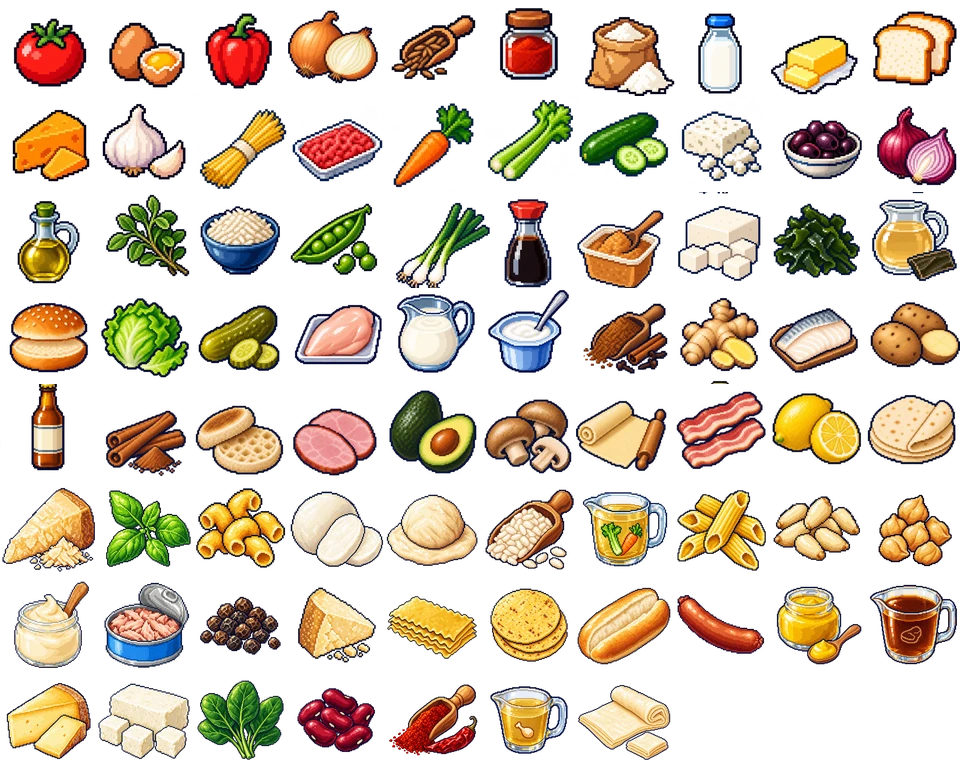
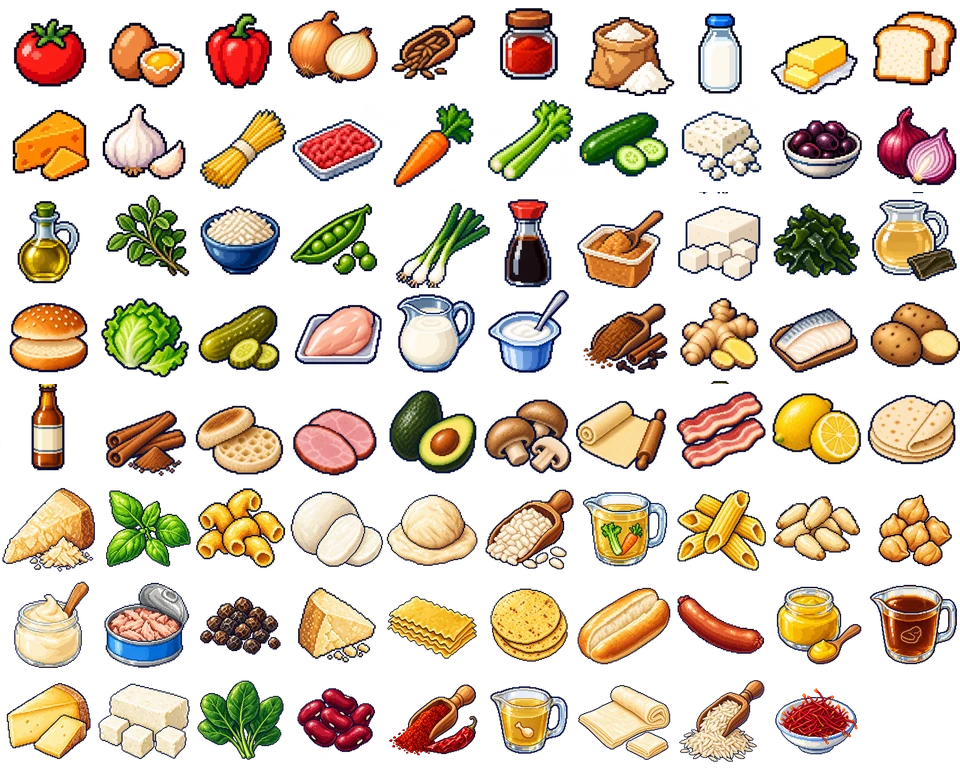
Complete chicken biryani artwork set

Changed region(s): [[0.6875, 0.875, 0.9062, 1.0]]

diff --git a/WORK_LOG.md b/WORK_LOG.md
@@ -6,12 +6,12 @@ Every AI must read this file before working and update it throughout the session
 
 - Current milestone: game/ is playable with Daily dish (US Eastern midnight, shared clue order, saved on device) and Endless (shuffled deck, excludes today's daily, not saved). Browser-verified in emulation; real-device keyboards untested.
 - Product: daily meal guessing plus endless mode. Approved desktop B split layout and mobile native-keyboard-aware layout.
-- Available: 45-meal roster, 35 meal illustrations, 77 of 103 canonical ingredient icons, 11 draft custom animation groups, mockups, prompts, visual prototypes and normalized asset map.
+- Available: 45-meal roster, 36 meal illustrations, 79 of 103 canonical ingredient icons, 11 draft custom animation groups, mockups, prompts, visual prototypes and normalized asset map.
 - Implemented: responsive game, daily/endless, daily persistence, alias suggestions, streaks, sound and lazy-loaded art. Test deploy live at https://meal-lion-playtest.netlify.app (updated 2026-10-23, public, no password); final product decisions remain open. reference/meal-lion-demo/pilot.html remains a visual demo that exposes answers.
-- Repository/branch/checkpoint: codex/missing-food-art; latest existing checkpoint c687920 before Chicken pot pie set; deployed source e57c02b on 2026-10-23, pushed to origin/main and origin/codex/missing-food-art. Remote: origin = https://github.com/EricTalanoa/meal-lion (private); main, feat/three-meal-game and codex/missing-food-art pushed 2026-10-19.
+- Repository/branch/checkpoint: codex/missing-food-art; latest existing checkpoint acffe0d (Chicken pot pie); Biryani set in progress; deployed source e57c02b on 2026-10-23, pushed to origin/main and origin/codex/missing-food-art. Remote: origin = https://github.com/EricTalanoa/meal-lion (private); main, feat/three-meal-game and codex/missing-food-art pushed 2026-10-19.
 - Asset automation: cloud task 6ad7bfe9c2408191b650b820afd8a386 was verified PAUSED on 2026-10-21; local heartbeat is PAUSED to prevent duplicates. 41 icons / 18 meals queued. Outputs require later local import. See docs/ASSET_AUTOMATION.md. Recurring queue/resume behavior remains untested.
 - Confirmed rules: ingredient-count guess budget, one free clue (zero optional), hidden total by default (showing totals is optional), with explicit 'all ingredients revealed' and 'last guess' cues; reveal order shuffled every round; skip policy approved; typo-tolerant suggestions. Open decisions: aliases, timezone/schedule, scoring and storage. See docs/PRODUCT.md.
-- Images: startup downloads kitchen, chef and one 308 KB sheet of all 75 ingredient icons (tools/build-icon-atlas.py), so clue icons no longer pop in; the rest loads on first use; published images are lossless WebP copies in assets/web/ (21.4 MB total). See the 2026-10-19 image-load entry.
+- Images: startup uses a shared ingredient sheet; finished meals use 240px thumbnails. The optimizer rebuilds both from the current map. Live deployment still has 34 meals / 75 icons; newer source artwork awaits a deployment request.
 - Next: user playtesting; deploy to Netlify only on the user's go-ahead (setup ready); set schedule startDate at launch; add dishes + art; real iOS/Android keyboard QA; open: share format, analytics.
 
 ### 2026-10-18 America/Los_Angeles — Codex — Approved rules / implementation start
@@ -374,3 +374,13 @@ Every AI must read this file before working and update it throughout the session
 
 
 - Resume verification: all 79 tests pass; build publishes 117 files / 51.3 MB. Previously inspected the complete 240px pot pie thumbnail. Preparing focused Git checkpoint for Chicken stock, Puff pastry and Chicken pot pie; no new deployment or browser/device QA.
+
+- Chicken pot pie checkpoint acffe0d committed; Git publishing in progress. Starting Basmati rice, Saffron and Chicken biryani sources with exact prompts in food-2026-10-25/prompts.json. Drafts await integration and verification.
+
+- Pot pie checkpoint acffe0d successfully pushed to both branches and main fast-forwarded. Basmati and saffron sources saved and visually inspected, complete objects visible. Biryani meal next.
+
+- Biryani set sources saved and mapped: 36 meals / 79 icons. Full sprites visually inspected; meal includes small green garnish despite prompt, retained as draft cosmetic detail, not gameplay ingredient data. Exact prompts saved. Optimizing next; final halo and browser/device QA pending.
+
+- Biryani source validation: three 1254x1254 RGBA files, alpha 0-255, solid bounds inside canvas. Next planned set after checkpoint: Short-grain rice, Green beans, Chicken paella, reusing Saffron and Chicken stock. Nine meal illustrations and 24 ingredient icons remain.
+
+- Optimizer completed: lossless visible pixels verified, 79-icon sheet (325,884 bytes), 36 meal thumbnails (719,396 bytes). Visually inspected biryani 240px copy: full bowl and readable chicken/rice. Initial suite 77/79: two fallback tests assumed Saffron had no art. Replaced that stale assumption with Unmapped test ingredient in tests/art.test.mjs; no runtime behavior changes. Rerun 79/79 passed; build 121 files / 54.0 MB. Preparing commit and push. Browser/device and final halo QA untested; new sets not deployed.

diff --git a/docs/ASSETS.md b/docs/ASSETS.md
@@ -2,7 +2,7 @@
 
 All source artwork and generation prompts are in reference/. Do not overwrite originals during cleanup. See assets/asset-map.json for a consistent map; older batch manifests use different structures. Cell indexes are zero-based row-major, with paths relative to this package root. Ingredient entries marked preferred are the suggested default; the old purple Onion icon is retained as a variant, while the yellow Onion is preferred and Red onion remains its own label.
 
-There are 35/45 meal illustrations, 77/103 canonical ingredient icons and 11 custom sequence groups. Chef neutral/blink/thinking/celebrate poses are separate. An animation group means a draft strip of distinct key poses, not a finished smooth animation. Pancake and grilled-cheese sequences share a 3-by-2 atlas. The other interactions are onion, tomato, egg, milk, cheese, dough, mushroom, rice and garlic. Existing demos add procedural steam, particles and ingredient movement.
+There are 36/45 meal illustrations, 79/103 canonical ingredient icons and 11 custom sequence groups. Chef neutral/blink/thinking/celebrate poses are separate. An animation group means a draft strip of distinct key poses, not a finished smooth animation. Pancake and grilled-cheese sequences share a 3-by-2 atlas. The other interactions are onion, tomato, egg, milk, cheese, dough, mushroom, rice and garlic. Existing demos add procedural steam, particles and ingredient movement.
 
 Recommended interaction routing: Onion -> onion; Tomato -> tomato; Egg -> egg; Milk -> milk; Cheddar -> cheese; Pizza dough -> dough; Mushroom -> mushroom; Rice or Arborio rice -> rice; Garlic -> garlic. These are integration suggestions; most newer sequences are not wired into the pilot. Use neutral/general reactions for missing interactions until dedicated ones exist. A cheddar-colored animation is not automatically suitable for every cheese.
 

diff --git a/assets/COVERAGE.md b/assets/COVERAGE.md
@@ -1,6 +1,6 @@
 # Artwork coverage
 
-35/45 meal illustrations; 77/103 canonical ingredient icons; 11 custom animation groups. All draft.
+36/45 meal illustrations; 79/103 canonical ingredient icons; 11 custom animation groups. All draft.
 
 | ID | Meal | Meal art | Missing ingredient icons |
 |---|---|---|---|
@@ -32,8 +32,8 @@
 | 26 | Falafel pita | Missing | Pita, Parsley, Tahini |
 | 27 | Fish and chips | Available | None |
 | 28 | Egg fried rice | Available | None |
-| 29 | Chicken biryani | Missing | Basmati rice, Saffron |
-| 30 | Chicken paella | Missing | Short-grain rice, Green beans, Saffron |
+| 29 | Chicken biryani | Available | None |
+| 30 | Chicken paella | Missing | Short-grain rice, Green beans |
 | 31 | Chili con carne | Available | None |
 | 32 | Cottage pie | Available | None |
 | 33 | Chicken pot pie | Available | None |
